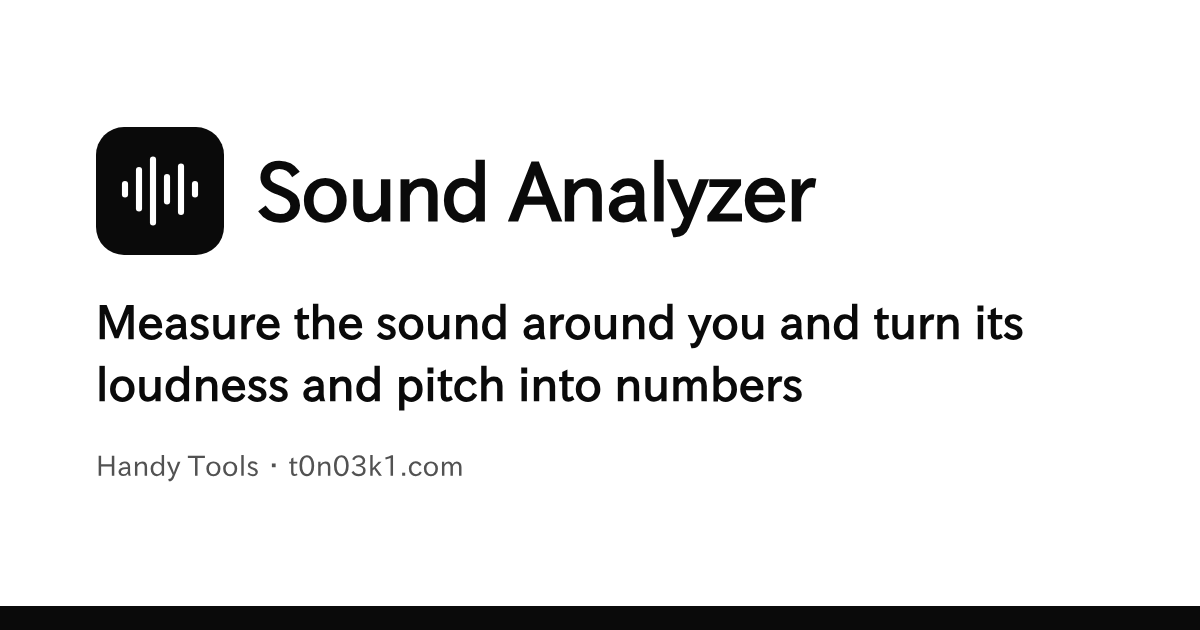
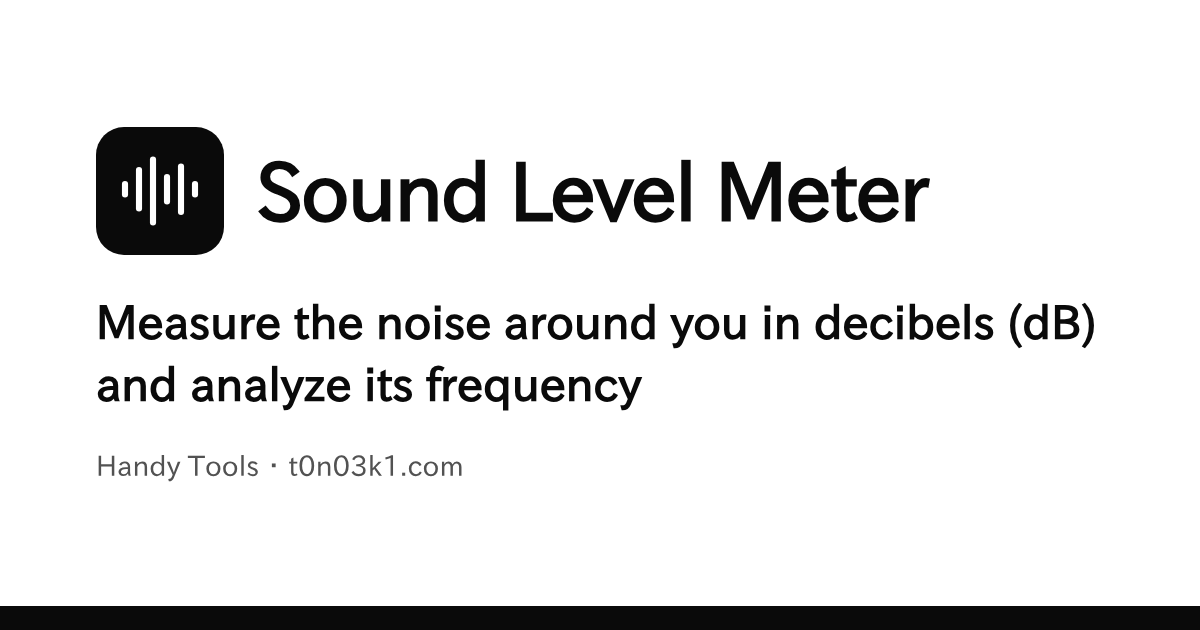
音響解析の名前を「騒音計」（英語は Sound Level Meter）に統一する
「音響解析」「騒音計」が混在していて、何をするツールか分かりにくかった。中心の機能（周りの音の
大きさを dB で測る）をそのまま表し、最もよく探される一般名の「騒音計」にする。英語も一般名の
Sound Level Meter にする。「デシベル測定」「Decibel Meter」は見出しと title に添える。URL
（/sound-meter/）は公開済みなので変えない。

- manifest の名前・説明、ページの見出し・title・説明文・アプリ名、規約の節、E2E を揃える
- 本文の「騒音計」（基準にする専用の機器）は「市販の騒音計」と書き分ける
- OGP 画像を作り直す

Claude-Session: https://claude.ai/code/session_01DwmHDA88D3UXi2ndsSHwbK

Changed region(s): [[0.0617, 0.4825, 0.925, 0.6635], [0.4008, 0.2413, 0.7708, 0.3921]]

diff --git a/app/apps/sound-meter/i18n/ja.ts b/app/apps/sound-meter/i18n/ja.ts
@@ -1,18 +1,18 @@
 import { manifest } from "../manifest.ts";
 
 /**
- * 音響解析の文言（日本語・正）。キーを足したら en.ts にも足す（足りないと型エラーになる）。
+ * 騒音計の文言（日本語・正）。キーを足したら en.ts にも足す（足りないと型エラーになる）。
  * 置換は "{name}" 形式。
  */
 export const ja = {
   site: { name: manifest.name.ja },
   page: {
-    title: "音響解析（騒音計）",
-    metaTitle: "音響解析・騒音計（無料・ブラウザで周りの音を dB で測定）",
+    title: "騒音計（デシベル測定）",
+    metaTitle: "騒音計・デシベル測定（無料・ブラウザで周りの音を dB で計測）",
     lead: "ボタンを押すと、マイクで周りの音を測って、音の大きさ（dB）・主な周波数・音域の内訳を数値にします。音は端末の中で解析するだけで、録音も送信もしません。",
     description:
-      "周りの音をマイクで測定し、騒音レベル（推定 dB(A)）の平均・最大・L90、主な周波数と音名、低音〜高音の内訳を数値で表示する無料ツール。インストール不要で、音はブラウザの中だけで解析します。",
-    appName: "音響解析（騒音計）",
+      "スマホやパソコンのマイクで、周りの騒音をデシベル（推定 dB(A)）で測る無料の騒音計。平均・最大・L90、主な周波数と音名、低音〜高音の内訳まで数値で表示します。インストール不要で、音はブラウザの中だけで解析します。",
+    appName: "騒音計（デシベル測定）",
   },
   measure: {
     start: "計測を開始",
@@ -78,7 +78,7 @@ export const ja = {
     durationValue: "{seconds} 秒",
     calibration: "補正値（dB）",
     calibrationHint:
-      "推定 dB = dBFS ＋ 補正値。端末のマイクは校正されていないため、騒音計など基準の分かる音があれば、その値に合うように調整してください。この端末に保存します。",
+      "推定 dB = dBFS ＋ 補正値。端末のマイクは校正されていないため、市販の騒音計など基準の分かる音があれば、その値に合うように調整してください。この端末に保存します。",
     reset: "既定に戻す",
   },
   errors: {
@@ -95,7 +95,7 @@ export const ja = {
     q1: "音は録音・送信されますか？",
     a1: "されません。マイクの音はブラウザの中で 0.1 秒ごとに解析して数値にするだけで、音そのものは保存も送信もしません。計測が終わる（停止する）とマイクは自動でオフになります。",
     q2: "表示される dB は正確ですか？",
-    a2: "目安です。スマートフォンやパソコンのマイクは機種ごとに感度が違い、校正もされていないため、推定 dB は「マイクが拾った大きさ（dBFS）＋ 補正値」で求めています。騒音計など基準となる値が分かる場合は、設定の補正値を合わせると近い値になります。法令や契約に関わる測定には、検定済みの騒音計を使ってください。",
+    a2: "目安です。スマートフォンやパソコンのマイクは機種ごとに感度が違い、校正もされていないため、推定 dB は「マイクが拾った大きさ（dBFS）＋ 補正値」で求めています。市販の騒音計など基準となる値が分かる場合は、設定の補正値を合わせると近い値になります。法令や契約に関わる測定には、検定済みの騒音計を使ってください。",
     q3: "dB(A)・L90 とは何ですか？",
     a3: "dB(A) は、人の耳が聞き取りにくい低い音・とても高い音を弱めて数えた（A 特性で重み付けした）大きさです。L90 は「計測時間の 90% でこの大きさを超えていた」という値で、話し声や車の通過などを除いた、その場所のふだんの音（暗騒音）の目安になります。",
     q4: "うまく測れない・値が小さすぎます。",

diff --git a/app/apps/sound-meter/i18n/en.ts b/app/apps/sound-meter/i18n/en.ts
@@ -4,12 +4,12 @@ import type { Dictionary } from "./types.ts";
 export const en = {
   site: { name: manifest.name.en },
   page: {
-    title: "Sound Analyzer (Sound Level Meter)",
-    metaTitle: "Sound Analyzer & Sound Level Meter (Free, Measure dB in Your Browser)",
+    title: "Sound Level Meter (Decibel Meter)",
+    metaTitle: "Sound Level Meter & Decibel Meter (Free, Measure dB in Your Browser)",
     lead: "Press the button to measure the sound around you with your microphone and see its loudness (dB), main frequency, and frequency breakdown as numbers. Sound is analyzed only on your device and is never recorded or sent.",
     description:
-      "A free tool that measures ambient sound with your microphone and shows the average, maximum, and L90 noise level (estimated dB(A)), the main frequency and musical note, and the low-to-high frequency breakdown. No install needed, and sound is analyzed only in your browser.",
-    appName: "Sound Analyzer",
+      "A free sound level meter (decibel meter) that measures the noise around you with your phone or computer microphone. See the average, maximum, and L90 level in estimated dB(A), the main frequency and musical note, and the low-to-high frequency breakdown. No install needed, and sound is analyzed only in your browser.",
+    appName: "Sound Level Meter (Decibel Meter)",
   },
   measure: {
     start: "Start measuring",
@@ -76,7 +76,7 @@ export const en = {
     durationValue: "{seconds} s",
     calibration: "Calibration offset (dB)",
     calibrationHint:
-      "Estimated dB = dBFS + offset. Device microphones aren't calibrated, so if you have a reference such as a sound level meter, adjust the offset to match it. Saved on this device.",
+      "Estimated dB = dBFS + offset. Device microphones aren't calibrated, so if you have a reference such as a dedicated sound level meter, adjust the offset to match it. Saved on this device.",
     reset: "Reset",
   },
   errors: {
@@ -93,7 +93,7 @@ export const en = {
     q1: "Is the sound recorded or sent anywhere?",
     a1: "No. The microphone input is analyzed in your browser every 0.1 seconds and turned into numbers. The sound itself is never stored or sent. The microphone turns off automatically when the measurement ends or you stop it.",
     q2: "How accurate are the dB values?",
-    a2: "They are estimates. Phone and computer microphones differ in sensitivity and aren't calibrated, so the estimated dB is the level the microphone picks up (dBFS) plus a calibration offset. If you know a reference value, for example from a sound level meter, set the offset to match. For measurements with legal or contractual weight, use a certified sound level meter.",
+    a2: "They are estimates. Phone and computer microphones differ in sensitivity and aren't calibrated, so the estimated dB is the level the microphone picks up (dBFS) plus a calibration offset. If you know a reference value, for example from a dedicated sound level meter, set the offset to match. For measurements with legal or contractual weight, use a certified sound level meter.",
     q3: "What do dB(A) and L90 mean?",
     a3: "dB(A) is loudness weighted the way human hearing works (A-weighting), which counts very low and very high sounds less. L90 is the level exceeded 90% of the time. It leaves out passing sounds such as voices or cars, so it shows the usual background noise of a place.",
     q4: "The readings look wrong or too low.",

diff --git a/app/apps/sound-meter/manifest.ts b/app/apps/sound-meter/manifest.ts
@@ -2,10 +2,10 @@ import type { AppManifest } from "../../platform/types.ts";
 export const manifest = {
   id: "sound-meter",
   path: "sound-meter",
-  name: { ja: "音響解析", en: "Sound Analyzer" },
+  name: { ja: "騒音計", en: "Sound Level Meter" },
   description: {
-    ja: "ボタンひとつで周りの音を測り、音の大きさと高さを数値にする",
-    en: "Measure the sound around you and turn its loudness and pitch into numbers",
+    ja: "周りの音をデシベル（dB）で測り、周波数も分析",
+    en: "Measure the noise around you in decibels (dB) and analyze its frequency",
   },
   highlights: {
     ja: ["騒音レベル（dB）を計測", "平均・最大・L90 を集計", "周波数と音域の内訳"],
